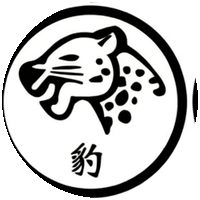
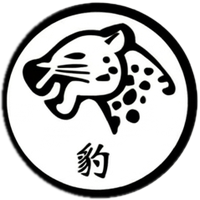
Fix all piece borders, correct grid layout, move assets to assets/

diff --git a/index.html b/index.html
@@ -601,7 +601,7 @@ function onImageLoad() {
 
 boardImg.onload  = onImageLoad;
 boardImg.onerror = () => console.error('Failed to load chessboard.png');
-boardImg.src     = 'chessboard.png';
+boardImg.src     = 'assets/chessboard.png';
 
 for (const player of PLAYERS_LIST) {
   for (const animal of ANIMALS) {

diff --git a/cut_pieces.py b/cut_pieces.py
@@ -1,9 +1,21 @@
 #!/usr/bin/env python3
 """
-Cut each piece from pieces.png into individual circle-masked PNGs.
-Saves to assets/ folder.
+Cut pieces from pieces.png into 200x200 individual PNGs.
+
+Strategy:
+  Each sprite occupies a 256x256 cell but the circle border often extends
+  past the cell edge into neighbouring cells.  We fit the circle using only
+  the arc pixels that are safely inside the cell (>= EDGE_SAFE pixels from
+  each potentially-clipped edge), then sample the full image with an extended
+  window to get the complete bitmap.
+
+Layout (4 cols × 4 rows, 256 px each):
+  row 0: red   — elephant, lion, tiger, leopard
+  row 1: red   — wolf, dog, cat, rat
+  row 2: black — elephant, lion, tiger, leopard
+  row 3: black — wolf, dog, cat, rat
 """
-from PIL import Image, ImageDraw
+from PIL import Image, ImageDraw, ImageFilter
 import numpy as np
 import os
 
@@ -11,78 +23,162 @@ os.makedirs("assets", exist_ok=True)
 
 p = Image.open("pieces.png").convert("RGBA")
 arr = np.array(p)
-SPR = 256   # sprite cell size
-OUT = 200   # output size
+ph, pw = arr.shape[:2]
+SPR = 256
+OUT = 200
 
-# Sprite grid layout (col, base_row) by animal name
-PIECES = {
-    'elephant': (0, 0),
-    'tiger':    (1, 0),
-    'cat':      (2, 0),
-    'wolf':     (3, 0),
-    'dog':      (0, 1),
-    'rat':      (1, 1),
-    'leopard':  (2, 1),
-    'lion':     (3, 1),
-}
-PLAYERS = [('red', 0), ('black', 2)]
+# (col, row) within the 4x4 grid
+LAYOUT = [
+    # (player, animal, col, row)  — 4 cols × 4 rows, 256 px cells
+    # Row 0 = red top row,   Row 2 = black top row
+    ('red',   'elephant', 0, 0), ('red',   'tiger',   1, 0),
+    ('red',   'cat',      2, 0), ('red',   'wolf',    3, 0),
+    ('red',   'dog',      0, 1), ('red',   'rat',     1, 1),
+    ('red',   'leopard',  2, 1), ('red',   'lion',    3, 1),
+    ('black', 'elephant', 0, 2), ('black', 'tiger',   1, 2),
+    ('black', 'cat',      2, 2), ('black', 'wolf',    3, 2),
+    ('black', 'dog',      0, 3), ('black', 'rat',     1, 3),
+    ('black', 'leopard',  2, 3), ('black', 'lion',    3, 3),
+]
 
-def find_circle(sprite_arr):
-    """Find circle centre and radius in a sprite by scanning edges."""
-    # Non-white = any channel < 230
-    mask = np.any(sprite_arr[:, :, :3] < 230, axis=2)
-    ys, xs = np.where(mask)
-    if not len(xs):
-        return SPR//2, SPR//2, SPR//2
-    x0, x1 = int(xs.min()), int(xs.max())
-    y0, y1 = int(ys.min()), int(ys.max())
-    cx = (x0 + x1) / 2
-    cy = (y0 + y1) / 2
-    # Use the smaller of width/height halves as radius (handles clipped sprites at edge)
-    r = min((x1 - x0) / 2, (y1 - y0) / 2)
+EDGE_SAFE = 20   # pixels from each edge to trust as "our circle" arc
+DARK_THRESH = 90
+
+
+def fit_circle(xs, ys):
+    """Kasa algebraic circle fit. Returns (cx, cy, r)."""
+    x = xs.astype(float)
+    y = ys.astype(float)
+    A = np.c_[x * 2, y * 2, np.ones(len(x))]
+    b = x**2 + y**2
+    res, _, _, _ = np.linalg.lstsq(A, b, rcond=None)
+    cx, cy = res[0], res[1]
+    r = float(np.sqrt(res[2] + cx**2 + cy**2))
     return cx, cy, r
 
-saved = []
-for animal, (sc, sbr) in PIECES.items():
-    for player, row_offset in PLAYERS:
-        sr = sbr + row_offset
-        sx, sy = sc * SPR, sr * SPR
-        sprite = arr[sy:sy+SPR, sx:sx+SPR]
 
-        cx, cy, radius = find_circle(sprite)
-        print(f"{player:5} {animal:10}: circle centre ({cx:.1f},{cy:.1f}) r={radius:.1f}")
+def collect_arc_points(bright, clipped_right, clipped_left, clipped_top, clipped_bot):
+    """
+    Collect boundary arc points from each edge-scan direction,
+    skipping directions where the arc is clipped by the cell boundary.
+    """
+    H, W = bright.shape
+    cols = np.arange(W)
+    rows = np.arange(H)
+    pts = []
 
-        # Scale factor: map circle radius → (OUT/2 - 2px margin)
-        target_r = OUT / 2 - 2
-        scale    = target_r / radius
-        new_size = int(round(SPR * scale))
+    # Left arc (leftmost dark per row) — skip if circle clipped on left
+    if not clipped_left:
+        for row in rows:
+            darks = np.where(bright[row] < DARK_THRESH)[0]
+            if len(darks):
+                pts.append((float(darks[0]), float(row)))
 
-        # Paste scaled sprite onto a white canvas the same size
-        spr_img   = Image.fromarray(sprite)
-        spr_scaled = spr_img.resize((new_size, new_size), Image.LANCZOS)
+    # Right arc (rightmost dark per row, capped at safe zone) — skip if clipped right
+    if not clipped_right:
+        for row in rows:
+            darks = np.where(bright[row] < DARK_THRESH)[0]
+            if len(darks):
+                pts.append((float(darks[-1]), float(row)))
+    else:
+        # Still use right arc but only trust pixels far from right edge
+        safe = W - EDGE_SAFE
+        for row in rows:
+            darks = np.where((bright[row] < DARK_THRESH) & (cols < safe))[0]
+            if len(darks):
+                pts.append((float(darks[-1]), float(row)))
 
-        # New circle centre after scaling
-        ncx = cx * scale
-        ncy = cy * scale
+    # Top arc (topmost dark per col) — skip if clipped on top
+    if not clipped_top:
+        for col in cols:
+            darks = np.where(bright[:, col] < DARK_THRESH)[0]
+            if len(darks):
+                pts.append((float(col), float(darks[0])))
 
-        # Destination canvas (OUT × OUT), centre of canvas = (OUT/2, OUT/2)
-        out = Image.new("RGBA", (OUT, OUT), (255, 255, 255, 255))
-        paste_x = int(round(OUT/2 - ncx))
-        paste_y = int(round(OUT/2 - ncy))
-        out.paste(spr_scaled, (paste_x, paste_y))
+    # Bottom arc (bottommost dark per col) — skip if clipped on bottom
+    if not clipped_bot:
+        for col in cols:
+            darks = np.where(bright[:, col] < DARK_THRESH)[0]
+            if len(darks):
+                pts.append((float(col), float(darks[-1])))
 
-        # Apply circular alpha mask centred in output canvas
-        mask_img = Image.new("L", (OUT, OUT), 0)
-        draw = ImageDraw.Draw(mask_img)
-        draw.ellipse([2, 2, OUT-3, OUT-3], fill=255)
-        # Feather using a slightly smaller inner region (anti-alias)
-        r_arr = np.array(mask_img, dtype=np.uint8)
-        out_arr = np.array(out)
-        out_arr[:, :, 3] = r_arr
-        result = Image.fromarray(out_arr)
+    return np.array(pts) if pts else None
 
-        fname = f"assets/piece_{player}_{animal}.png"
-        result.save(fname)
-        saved.append(fname)
 
-print(f"\nSaved {len(saved)} piece PNGs to assets/")
+for player, animal, sc, sr in LAYOUT:
+    sx, sy = sc * SPR, sr * SPR
+    sprite = arr[sy:sy+SPR, sx:sx+SPR, :3].astype(float)
+    bright = sprite.mean(axis=2)
+
+    # Detect which edges have significant dark-pixel presence (clipped)
+    CLIP_THRESH = 40
+    right_ct = sum(1 for r in range(SPR) if np.any(bright[r, SPR-EDGE_SAFE:] < DARK_THRESH))
+    left_ct  = sum(1 for r in range(SPR) if np.any(bright[r, :EDGE_SAFE] < DARK_THRESH))
+    top_ct   = sum(1 for c in range(SPR) if np.any(bright[:EDGE_SAFE, c] < DARK_THRESH))
+    bot_ct   = sum(1 for c in range(SPR) if np.any(bright[SPR-EDGE_SAFE:, c] < DARK_THRESH))
+
+    clipped_right = right_ct > CLIP_THRESH
+    clipped_left  = left_ct  > CLIP_THRESH
+    clipped_top   = top_ct   > CLIP_THRESH
+    clipped_bot   = bot_ct   > CLIP_THRESH
+
+    pts = collect_arc_points(bright, clipped_right, clipped_left, clipped_top, clipped_bot)
+    if pts is None or len(pts) < 8:
+        print(f"WARNING: {player} {animal} — not enough arc points, falling back")
+        ys_d, xs_d = np.where(bright < DARK_THRESH)
+        pts = np.c_[xs_d.astype(float), ys_d.astype(float)]
+
+    cx_cell, cy_cell, r = fit_circle(pts[:, 0], pts[:, 1])
+
+    clipped_info = (
+        ("R" if clipped_right else "") +
+        ("L" if clipped_left  else "") +
+        ("T" if clipped_top   else "") +
+        ("B" if clipped_bot   else "")
+    )
+    print(f"{player:5} {animal:10}: centre=({cx_cell:.1f},{cy_cell:.1f}) r={r:.1f}  clipped={clipped_info or 'none'}")
+
+    # Extract a padded window from the full image to capture the whole circle.
+    # IMPORTANT: clamp the extraction to the original sprite cell boundary only.
+    # Neighbouring sprites have their own dark circle borders — pulling pixels
+    # beyond the cell boundary causes those borders to appear in our output.
+    cx_full = sx + cx_cell
+    cy_full = sy + cy_cell
+    PAD = 4
+    ex0 = max(sx,        int(cx_full - r) - PAD)
+    ey0 = max(sy,        int(cy_full - r) - PAD)
+    ex1 = min(sx + SPR,  int(cx_full + r) + PAD + 1)
+    ey1 = min(sy + SPR,  int(cy_full + r) + PAD + 1)
+
+    region = Image.fromarray(arr[ey0:ey1, ex0:ex1]).convert("RGBA")
+    rW = ex1 - ex0
+    rH = ey1 - ey0
+
+    # Scale so circle fills OUT-4 pixels (2px margin each side)
+    scale = (OUT - 4) / (2 * r)
+    sw = max(OUT, int(rW * scale + 0.5))
+    sh = max(OUT, int(rH * scale + 0.5))
+    scaled = region.resize((sw, sh), Image.LANCZOS)
+
+    # Circle centre in scaled image
+    scx = (cx_full - ex0) * scale
+    scy = (cy_full - ey0) * scale
+
+    # Crop OUT×OUT centred on circle
+    crop_l = max(0, int(scx - OUT // 2))
+    crop_t = max(0, int(scy - OUT // 2))
+    crop_l = min(crop_l, max(0, sw - OUT))
+    crop_t = min(crop_t, max(0, sh - OUT))
+
+    cropped = scaled.crop((crop_l, crop_t, crop_l + OUT, crop_t + OUT)).convert("RGBA")
+
+    # Circular alpha mask with slight feathering
+    mask = Image.new("L", (OUT, OUT), 0)
+    ImageDraw.Draw(mask).ellipse((2, 2, OUT - 3, OUT - 3), fill=255)
+    mask = mask.filter(ImageFilter.GaussianBlur(1))
+    cropped.putalpha(mask)
+
+    out_path = f"assets/piece_{player}_{animal}.png"
+    cropped.save(out_path)
+
+print("\nDone — saved 16 PNGs to assets/")
